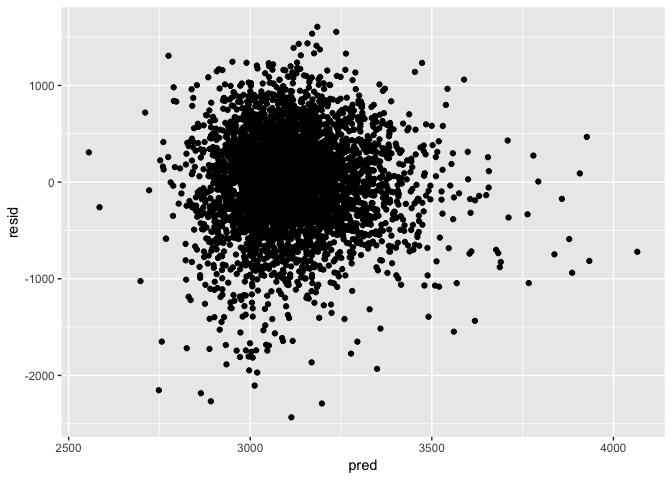
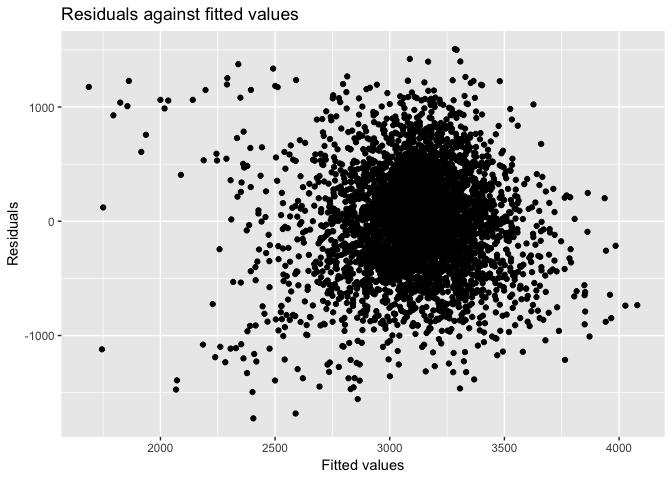
comment and explainings

diff --git a/p8105_hw6_xz2809.md b/p8105_hw6_xz2809.md
@@ -1,12 +1,12 @@
 P8105\_hw6\_xz2809
 ================
-Coco
+Coco Zou (xz2809)
 11/24/2018
 
 Problem 1
 ---------
 
-Here is the **code chunk** to read csv file and conduct the data wrangling
+Here is the **code chunk** to read csv file and conduct the data wrangling. We create a "city\_state" variable which combines city and state together. We also create a binary variable indicating whether the homicide is solved. We then omit cities Dallas, TX; Phoenix, AZ; and Kansas City, MO – these don’t report victim race. Also omit Tulsa, AL – this is a data entry mistake. We then modifiy "victim\_race"" to have categories white and non-white, with white as the reference category.
 
 ``` r
 homicide_df <- read_csv(file = "./data/homicide-data.csv") %>% 
@@ -23,7 +23,7 @@ homicide_df <- read_csv(file = "./data/homicide-data.csv") %>%
   within(victim_race <- relevel(victim_race, ref = "white"))
 ```
 
-For the city of Baltimore, MD, use the glm function to fit a logistic regression with resolved vs unresolved as the outcome and victim age, sex and race (as just defined) as predictors. Save the output of glm as an R object; apply the broom::tidy to this object; and obtain the estimate and confidence interval of the adjusted odds ratio for solving homicides comparing non-white victims to white victims keeping all other variables fixed.
+For the city of Baltimore, MD, we use the glm function to fit a logistic regression with resolved vs unresolved as the outcome and victim age, sex and race as predictors. The estimate and confidence interval of the adjusted odds ratio for solving homicides comparing non-white victims to white victims are shown in the table below.
 
 ``` r
 baltimore_df = 
@@ -34,11 +34,13 @@ fit_logistic =
   baltimore_df %>% 
   glm(resolved ~ victim_age + victim_race + victim_sex, data = ., family = binomial()) 
 
-fit_logistic %>% 
+fit_table = fit_logistic %>% 
   broom::tidy() %>% 
   mutate(OR = exp(estimate)) %>%
   select(term, log_OR = estimate, OR) %>% 
-  filter((term %in% c("victim_racenon_white"))) %>% 
+  filter((term %in% c("victim_racenon_white")))
+
+fit_table %>% 
   knitr::kable(digits = 3)
 ```
 
@@ -47,16 +49,20 @@ fit_logistic %>%
 | victim\_racenon\_white |    -0.82|  0.441|
 
 ``` r
-confint(fit_logistic,level=0.95)
+ci = confint(fit_logistic,level=0.95) %>% 
+  as.tibble() 
+
+ci <- ci[3,]
+
+ci %>% 
+  knitr::kable(digits = 3)
 ```
 
-    ##                            2.5 %        97.5 %
-    ## (Intercept)           0.73043530  1.6510015846
-    ## victim_age           -0.01342427 -0.0006274281
-    ## victim_racenon_white -1.16423133 -0.4785692559
-    ## victim_sexMale       -1.15576002 -0.6218668703
+|   2.5 %|  97.5 %|
+|-------:|-------:|
+|  -1.164|  -0.479|
 
-Now run glm for each of the cities in your dataset, and extract the adjusted odds ratio (and CI) for solving homicides comparing non-white victims to white victims. Do this within a “tidy” pipeline, making use of purrr::map, list columns, and unnest as necessary to create a dataframe with estimated ORs and CIs for each city.
+Here is the **code chunk** to run glm for each of the cities in your dataset, and extract the adjusted odds ratio (and CI) for solving homicides comparing non-white victims to white victims.
 
 ``` r
 homicide_df_model = homicide_df %>% 
@@ -76,7 +82,7 @@ homicide_df_model = homicide_df %>%
   select(city_state,low_bond,high_bond,OR)
 ```
 
-Create a plot that shows the estimated ORs and CIs for each city. Organize cities according to estimated OR, and comment on the plot.
+Here is the code chunk to create a plot that shows the estimated ORs and CIs for each city.
 
 ``` r
 homicide_df_model %>% 
@@ -93,14 +99,14 @@ homicide_df_model %>%
 
 ![](p8105_hw6_xz2809_files/figure-markdown_github/unnamed-chunk-4-1.png)
 
+As we can see from the plot above, Boston has the lowest OR around 0.2 while Tampa has the highest OR around 1.2. The confidence interval slightly increases with the estimate OR increasing.
+
 Problem 2
 ---------
 
 Here is the **code chunk** to read the csv file and conduct the data wrangling
 
 ``` r
-rm(list=ls(all=TRUE))
-
 birthweight_df = read_csv(file = "./data/birthweight.csv") %>% 
   na.omit() %>% 
   mutate(babysex = as.factor(babysex),
@@ -109,15 +115,7 @@ birthweight_df = read_csv(file = "./data/birthweight.csv") %>%
          malform = as.factor(malform))
 ```
 
-    ## Parsed with column specification:
-    ## cols(
-    ##   .default = col_integer(),
-    ##   gaweeks = col_double(),
-    ##   ppbmi = col_double(),
-    ##   smoken = col_double()
-    ## )
-
-    ## See spec(...) for full column specifications.
+Here is the **code chunk** to propose a regression model for birthweight.
 
 ``` r
 cv_df = 
@@ -125,30 +123,55 @@ cv_df =
   mutate(train = map(train, as_tibble),
          test = map(test, as_tibble))
 
-myfit =  lm(bwt ~ ppbmi + wtgain, data = birthweight_df)
+myfit =  lm(bwt ~ ppbmi + wtgain + gaweeks, data = birthweight_df)
+summary(myfit)
+```
 
+    ## 
+    ## Call:
+    ## lm(formula = bwt ~ ppbmi + wtgain + gaweeks, data = birthweight_df)
+    ## 
+    ## Residuals:
+    ##      Min       1Q   Median       3Q      Max 
+    ## -1724.96  -295.64     3.05   295.40  1507.02 
+    ## 
+    ## Coefficients:
+    ##             Estimate Std. Error t value Pr(>|t|)    
+    ## (Intercept) 109.7702    97.2279   1.129    0.259    
+    ## ppbmi        17.0382     2.1785   7.821 6.53e-15 ***
+    ## wtgain        9.4856     0.6402  14.816  < 2e-16 ***
+    ## gaweeks      61.5746     2.2086  27.879  < 2e-16 ***
+    ## ---
+    ## Signif. codes:  0 '***' 0.001 '**' 0.01 '*' 0.05 '.' 0.1 ' ' 1
+    ## 
+    ## Residual standard error: 453.5 on 4338 degrees of freedom
+    ## Multiple R-squared:  0.2164, Adjusted R-squared:  0.2158 
+    ## F-statistic: 399.3 on 3 and 4338 DF,  p-value: < 2.2e-16
+
+``` r
 birthweight_df %>% 
   add_predictions(myfit) %>% 
   add_residuals(myfit) %>% 
-  ggplot(aes(x = pred, y = resid)) + geom_point() 
+  ggplot(aes(x = pred, y = resid)) + geom_point()+
+  labs(
+    title = "Residuals against fitted values",
+    x = "Fitted values",
+    y = "Residuals"
+  )
 ```
 
 ![](p8105_hw6_xz2809_files/figure-markdown_github/unnamed-chunk-6-1.png)
 
-``` r
-ggplot(birthweight_df, aes(x = gaweeks, y = bwt)) + geom_point() + theme_bw()
-```
+My model contains mother’s pre-pregnancy BMI, mother’s weight gain during pregnancy (in pounds) and gestational age in weeks as predictors. As the physcial fitness of mother is significant to the well-being of the babies. Also, the length of growth is also posibably important to the birth weight. We purpose a linear model in this case, the adjusted R-squared is 0.2158, therefore it is not a very good fit. The plot is residuals against fitted values. Residuals spared around zero line, but it mainly gathers around 3000 - 3500, which means it is not a very good linear model.
 
-![](p8105_hw6_xz2809_files/figure-markdown_github/unnamed-chunk-6-2.png)
-
-Compare your model to two others:
+Here is the **code chunk** to compare my model to two others:
 
 One using length at birth and gestational age as predictors (main effects only) One using head circumference, length, sex, and all interactions (including the three-way interaction) between these
 
 ``` r
 cv_df = 
   cv_df %>% 
-  mutate(my_mod    = map(train, ~lm(bwt ~ ppbmi + wtgain, data = .x)),
+  mutate(my_mod    = map(train, ~lm(bwt ~ ppbmi + wtgain + gaweeks, data = .x)),
          given1_mod = map(train, ~lm(bwt ~ blength + gaweeks, data = .x)),
          given2_mod = map(train, ~lm(bwt ~ bhead + blength + babysex + bhead*blength + bhead*babysex + babysex*bhead + bhead*blength*babysex, data = .x))) %>% 
   mutate(rmse_my    = map2_dbl(my_mod, test, ~rmse(model = .x, data = .y)),
@@ -164,3 +187,5 @@ cv_df %>%
 ```
 
 ![](p8105_hw6_xz2809_files/figure-markdown_github/unnamed-chunk-7-1.png)
+
+The plot shows the RMSE of the three models. Smaller rmse indicates better model. Comparing with the three models, the second given model, which uses head circumference, length, sex, and all interactions (including the three-way interaction) between these, is the best fit.
